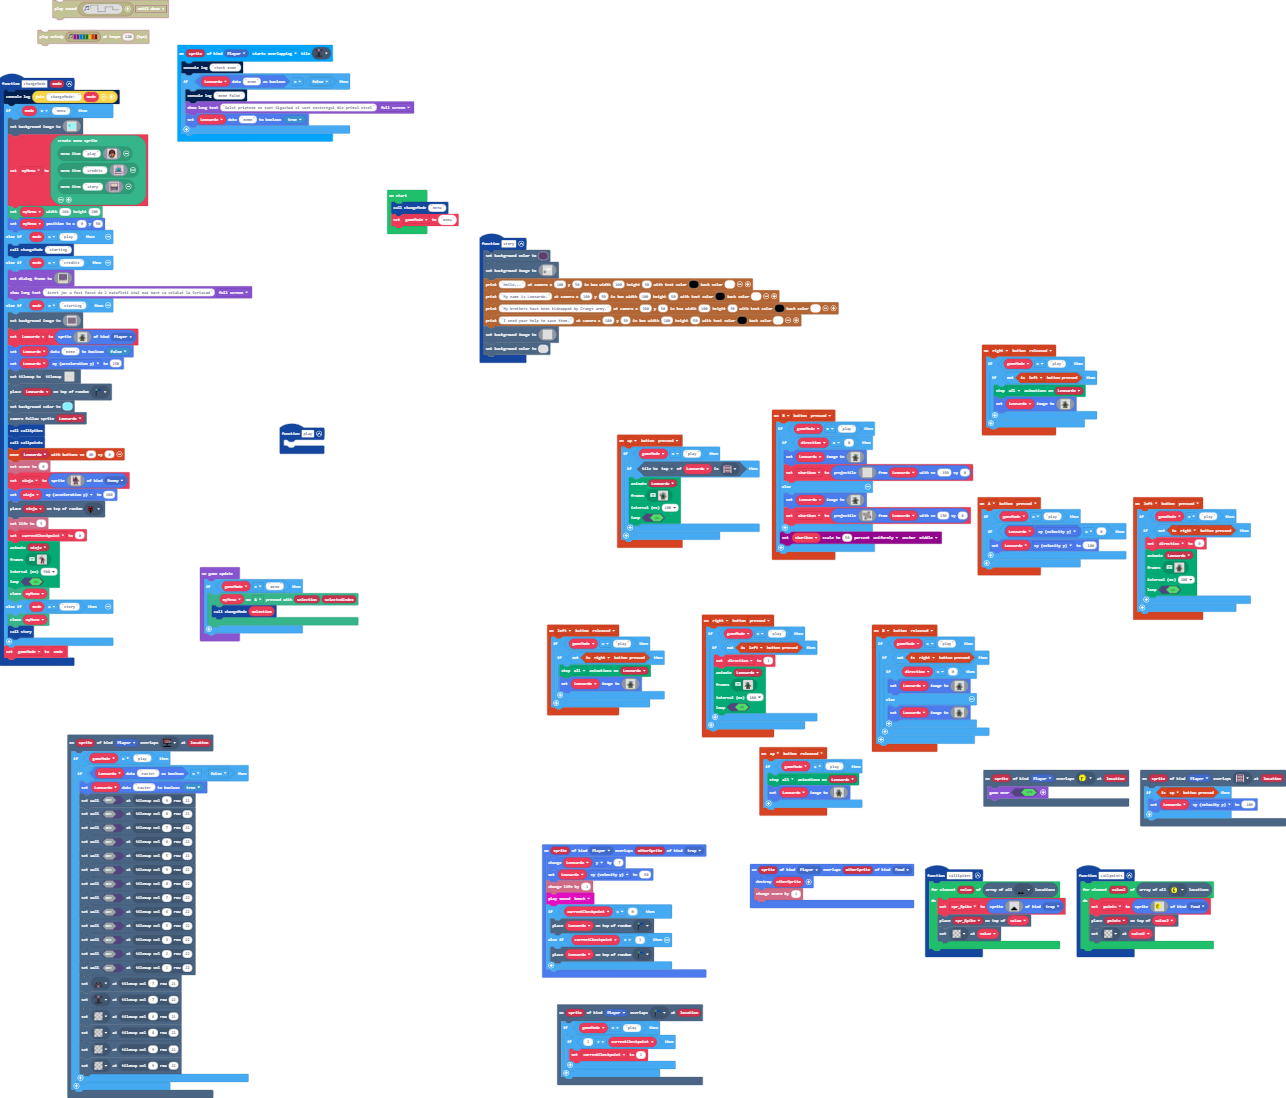
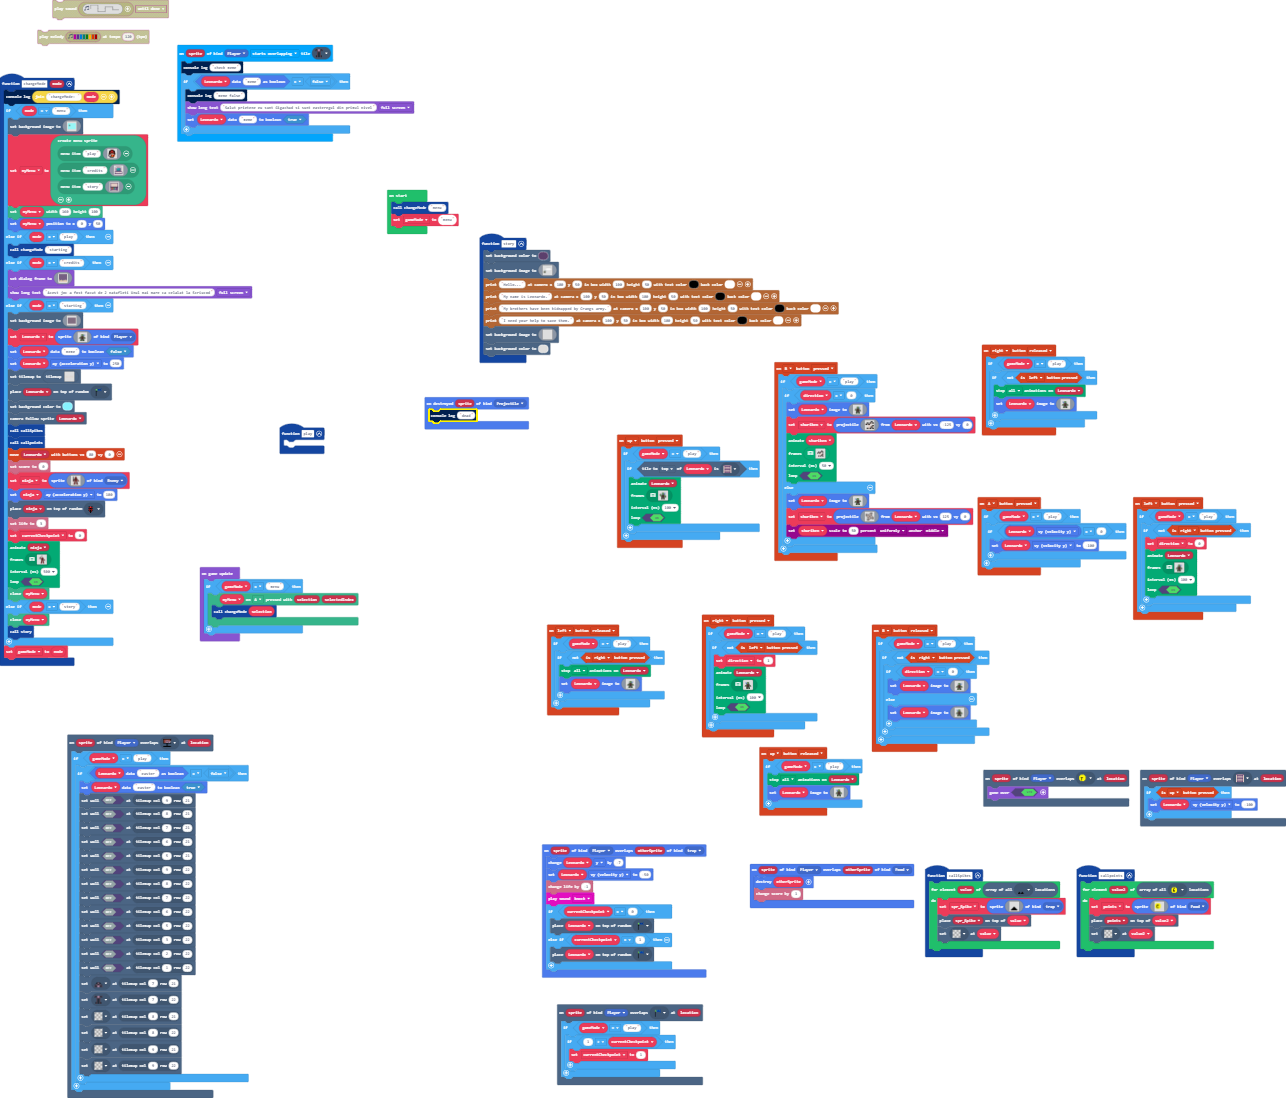
Update main.blocks, main.ts

Changed region(s): [[0.591, 0.3097, 0.7776, 0.5264], [0.311, 0.3406, 0.4044, 0.4026]]

diff --git a/main.ts b/main.ts
@@ -113,20 +113,55 @@ controller.B.onEvent(ControllerButtonEvent.Pressed, function () {
                 ...ffff..ffff...
                 `)
             shuriken = sprites.createProjectileFromSprite(img`
-                . . . . . . . . . . . . . 
-                . . . . . . . . . . . . . 
-                . . . . . . . . . . . . . 
-                . . . . . . . . . . . . . 
-                . . . . . . . . . . . . . 
-                . . . . . . . . . . . . . 
-                . . . . . . . . . . . . . 
-                . . . . . . . . . . . . . 
-                . . . . . . . . . . . . . 
-                . . . . . . . . . . . . . 
-                . . . . . . . . . . . . . 
-                . . . . . . . . . . . . . 
-                . . . . . . . . . . . . . 
-                `, Leonardo, -150, 0)
+                . . . . f . 
+                . f . f d f 
+                f d f d . . 
+                . . d . d f 
+                . . d d f d 
+                . f d f . f 
+                `, Leonardo, -125, 0)
+            animation.runImageAnimation(
+            shuriken,
+            [img`
+                . . . . . . . . 
+                . . . . . f . . 
+                . . f . f d f . 
+                . f d f d . . . 
+                . . . d . d f . 
+                . . . d d f d . 
+                . . f d f . f . 
+                . . . . . . . . 
+                `,img`
+                . . . . . . . . 
+                . f . f d f . . 
+                . d f d d . . . 
+                . f d . d . . . 
+                . . . d f d f . 
+                . f d f . f . . 
+                . . f . . . . . 
+                . . . . . . . . 
+                `,img`
+                . . . . . . . . 
+                . . f d f . f . 
+                . . . d d f d . 
+                . . . d . d f . 
+                . f d f d . . . 
+                . . f . f d f . 
+                . . . . . f . . 
+                . . . . . . . . 
+                `,img`
+                . . . . . . . . 
+                . . . . . f . . 
+                . . f . f d f . 
+                . f d f d . . . 
+                . . . d . d f . 
+                . . . d d f d . 
+                . . f d f . f . 
+                . . . . . . . . 
+                `],
+            50,
+            true
+            )
         } else {
             Leonardo.setImage(img`
                 ................
@@ -164,9 +199,9 @@ controller.B.onEvent(ControllerButtonEvent.Pressed, function () {
                 . . . f d d f . . . . f . 
                 . . f d d f . . . . . . . 
                 . . . f f . . . . . . . . 
-                `, Leonardo, 150, 0)
+                `, Leonardo, 125, 0)
+            scaling.scaleToPercent(shuriken, 50, ScaleDirection.Uniformly, ScaleAnchor.Middle)
         }
-        scaling.scaleToPercent(shuriken, 50, ScaleDirection.Uniformly, ScaleAnchor.Middle)
     }
 })
 scene.onOverlapTile(SpriteKind.Player, assets.tile`myTile15`, function (sprite, location) {
@@ -1235,6 +1270,9 @@ function changeMode (mode: string) {
     }
     gameMode = mode
 }
+sprites.onDestroyed(SpriteKind.Projectile, function (sprite) {
+    console.log("dead")
+})
 function callpoints () {
     for (let value2 of tiles.getTilesByType(assets.tile`myTile8`)) {
         points = sprites.create(img`
